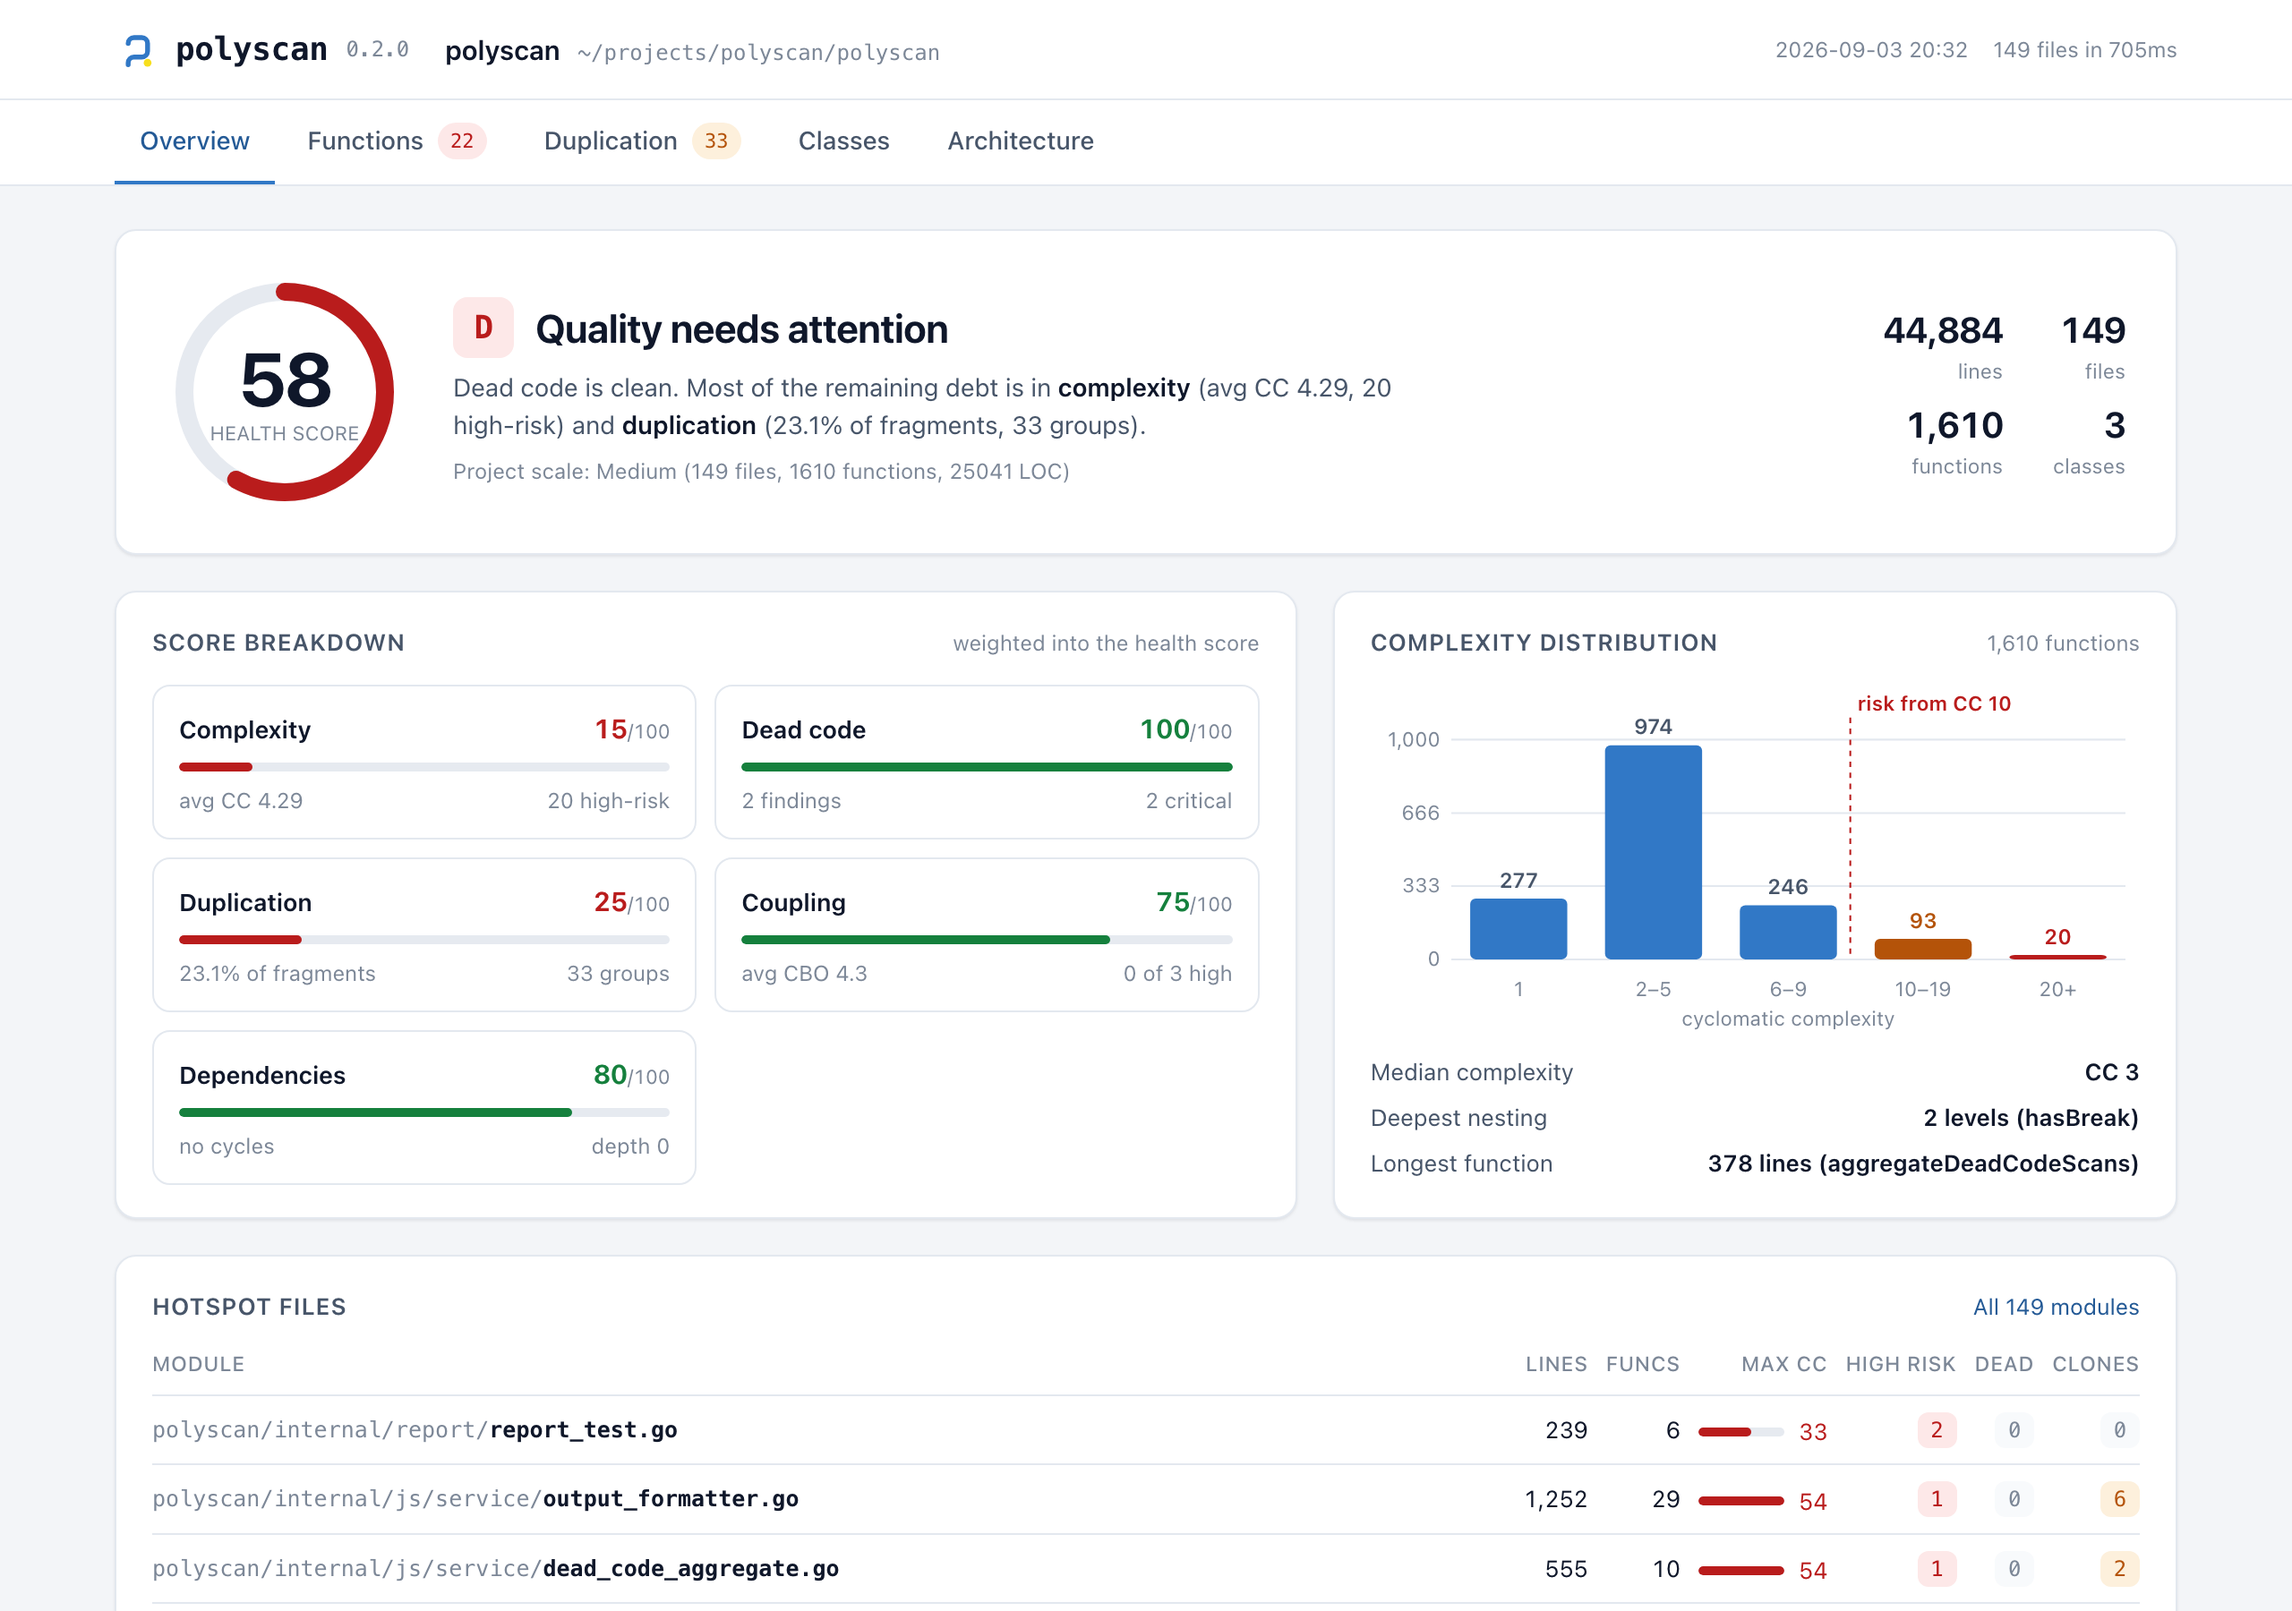
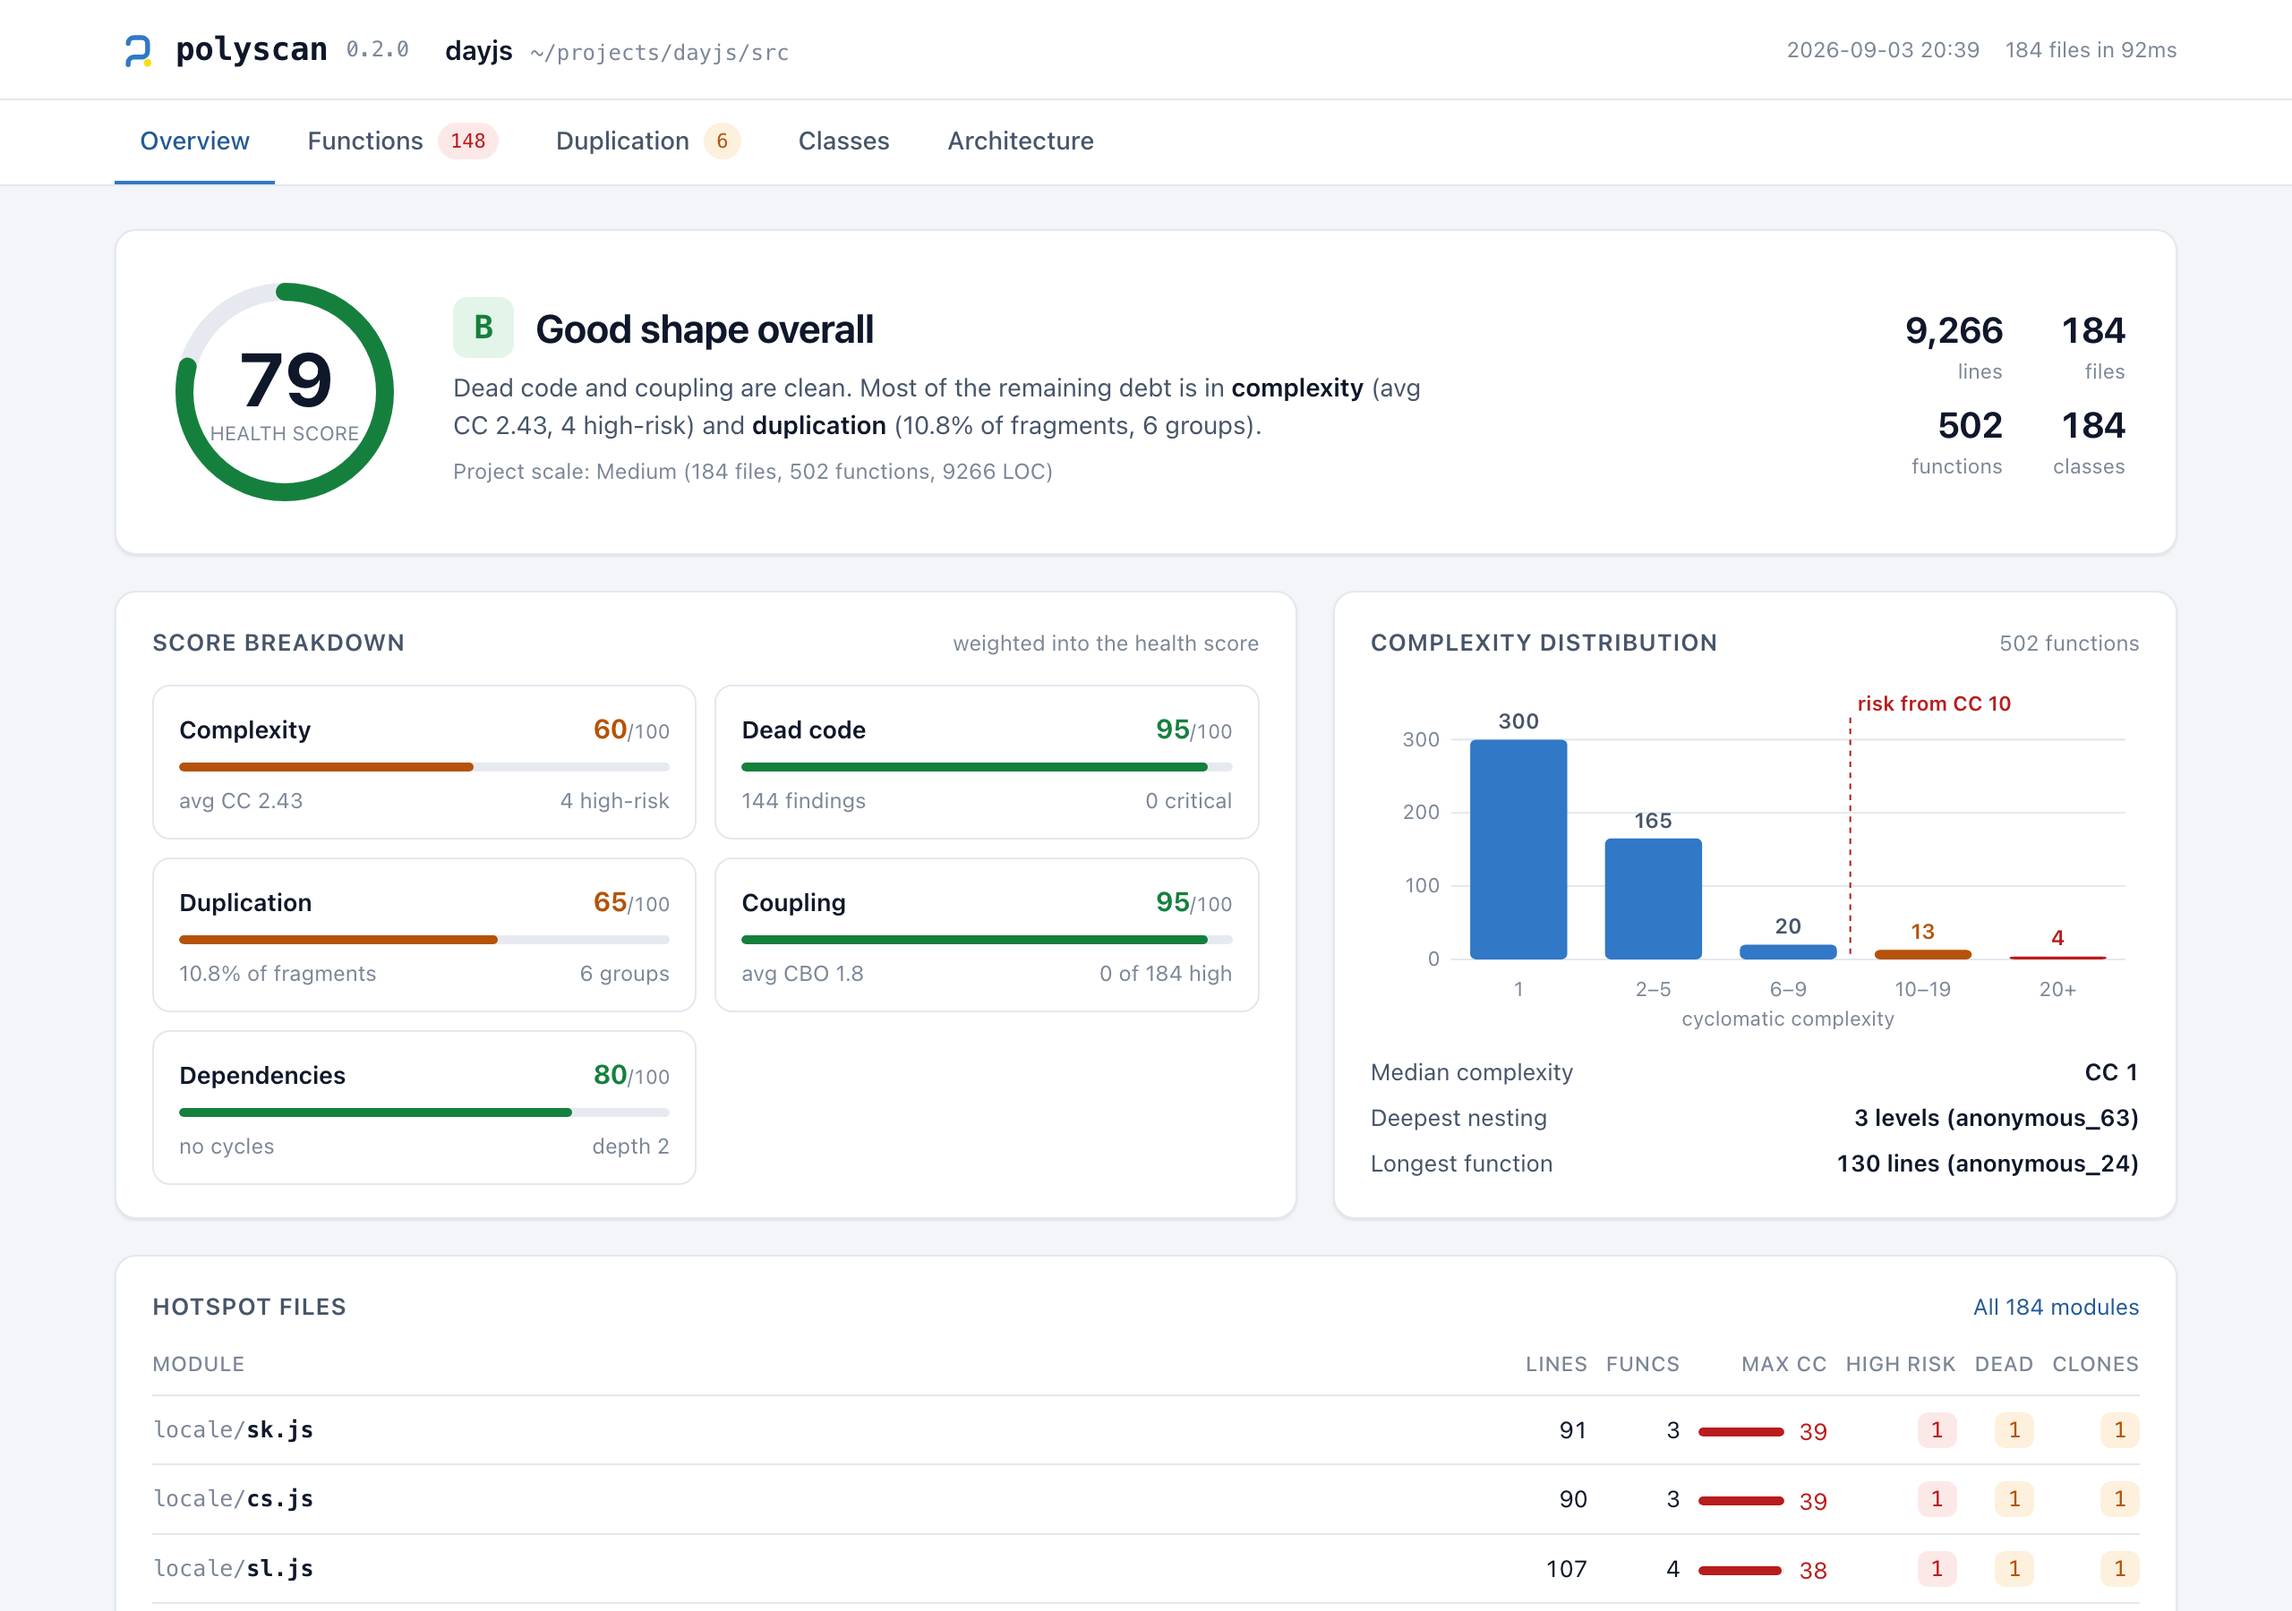
docs: use the Day.js report as the README sample
Claude-Session: https://claude.ai/code/session_01JRPXctMZ5LwuV5EBX5veo5

diff --git a/README.md b/README.md
@@ -49,9 +49,9 @@ Every analyzer scores your codebase (0-100 with an A-F grade) and generates an H
 
 Complexity and duplicate code cover every language; dead code, dependencies and class design run for JavaScript/TypeScript (and Python via pyscn) today. Dimensions a language does not have are left out of its score, not counted as clean.
 
-The HTML report opens on an overview of the score, the biggest sources of debt and the files to fix first:
+The HTML report opens on an overview of the score, the biggest sources of debt and the files to fix first. This is `polyscan analyze src` on [Day.js](https://github.com/iamkun/dayjs):
 
-![polyscan HTML report](docs/images/report.png)
+![polyscan HTML report for Day.js](docs/images/report.png)
 
 **Built with Go + tree-sitter** — fast enough to run on every commit.
 
